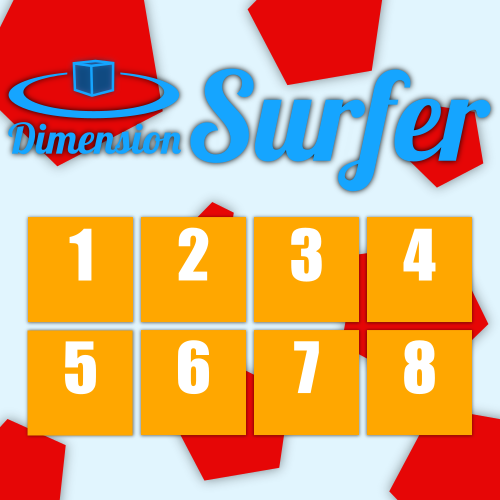
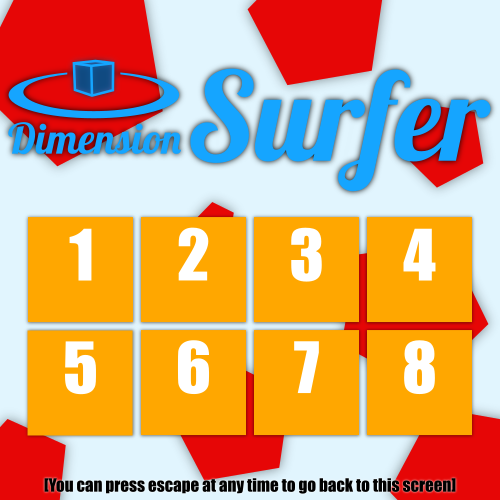
"You Win" screen
And fixed score resetting after winning.

Changed region(s): [[0.06, 0.93, 0.93, 0.99]]

diff --git a/main.py b/main.py
@@ -266,7 +266,6 @@ class Stars():
     def __init__(self, baseColour, maxColour):
         # Set the attributes
         self.z = 0
-        self.score = 0
         self.baseColour = baseColour
         self.maxColour = maxColour
         self.currentColour = self.baseColour
@@ -277,6 +276,8 @@ class Stars():
         self.z = 0
         # Set the id.
         self.id = id
+        # Reset the score.
+        self.score = 0
         # Import the data from a text file
         self.data = self.importData()
 
@@ -389,6 +390,9 @@ def main():
     # Load the necessary images.
     backgroundImage = pygame.image.load("images/main_background.png").convert()
     lockedImage = pygame.image.load("images/locked.png").convert_alpha()
+    youWinImage = pygame.image.load("images/you_win.png").convert_alpha()
+    newHighScoreImage = pygame.image.load("images/new_high_score.png").convert_alpha()
+    prevHighScoreImage = pygame.image.load("images/prev_high_score.png").convert_alpha()
 
     state = 0
     firstDraw = 1
@@ -396,7 +400,57 @@ def main():
     while not done:
         if state == -1:
             # Show the winning screen.
-            print("win")
+            if firstDraw:
+                # Render the backgorund.
+                screen.blit(youWinImage, [0, 0])
+                # Check if the current high score has been beaten.
+                if stars.score > scores[levelIndex-1]:
+                    # If yes, then draw the "New High Score" message.
+                    screen.blit(newHighScoreImage, [281, 267])
+                    # Change the stored high score to the current score
+                    scores[levelIndex-1] = stars.score
+                    # If the next level is not unlocked, unlock it.
+                    if scores[levelIndex] < 0:
+                        scores[levelIndex] = 0
+                    # Save the scores to the scores.txt file.
+                    s = open("scores.txt", 'w')
+                    s.write(" ".join([str(x) for x in scores]))
+                    s.close()
+                else:
+                    # If the high score has not been beaten, render the
+                    # "Current High Score" message.
+                    screen.blit(prevHighScoreImage, [331, 267])
+                    # Render the current high score using stars
+                    # and the algorithm used for that on the main screen.
+                    for i in range(3):
+                        if i > scores[levelIndex-1] - 1:
+                            stars.drawStar(screen, 350 + i * 33, 330, 1)
+                        else:
+                            stars.drawStar(screen, 350 + i * 33, 330, 0)
+                # Render the current score using stars
+                # and the algorithm used for that on the main screen.
+                for i in range(3):
+                    if i > stars.score - 1:
+                        stars.drawStar(screen, 54 + i * 33, 330, 1)
+                    else:
+                        stars.drawStar(screen, 54 + i * 33, 330, 0)
+                # Refresh the screen
+                pygame.display.flip()
+                # Indicate that the screen has been drawn already.
+                firstDraw = 0
+            # The event loop must in this case be after the drawing part. If it wasn't
+            # organised this way, setting firstDraw to one in the event loop would
+            # trigger drawing the "You Win" screen instead of the main screen.
+            for event in pygame.event.get():
+                # If the event type is QUIT, the user wants to close the window.
+                # So we set done to True.
+                if event.type == pygame.QUIT:
+                    done = True
+                # If any key is pressed or the mouse is clicked, we go to the main screen.
+                elif event.type == pygame.KEYDOWN or event.type == pygame.MOUSEBUTTONDOWN:
+                    firstDraw = 1
+                    state = 0
+
         elif state == 0:
             # Show the main screen.
             # Iterate on the events given by pygame.
@@ -530,6 +584,11 @@ def main():
             level.draw(screen)
             stars.draw(screen)
             player.draw(screen, level.z)
+
+            # Change state if player won.
+            if player.x >= 500:
+                firstDraw = 1
+                state = -1
 
             # Update the screen:
             pygame.display.flip()
